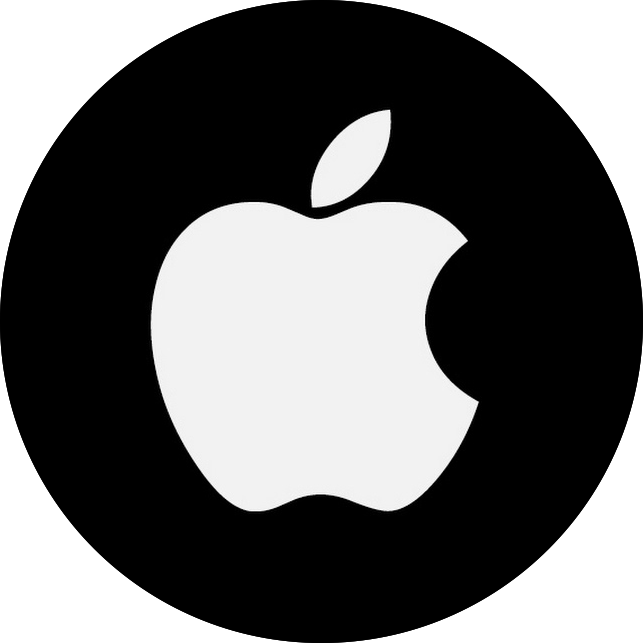
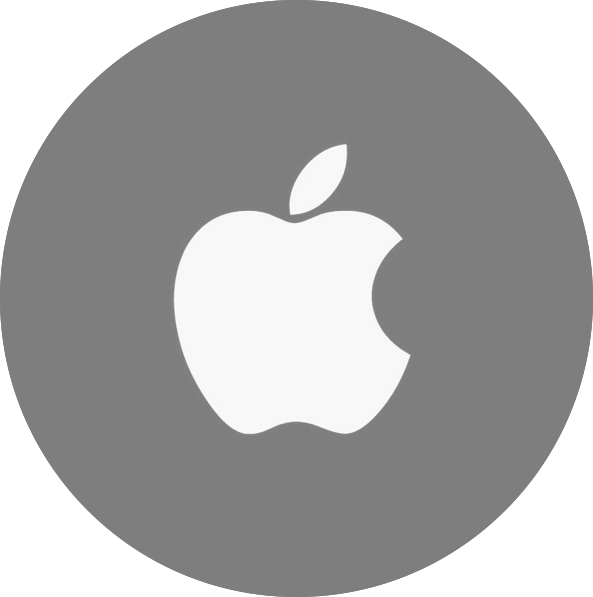
Profile Photo Change and About me fix

diff --git a/index.html b/index.html
@@ -176,18 +176,18 @@
 		<!-- Description of who I am -->
 		<div id="description">
 			<p>
-				<b>Who am I?</b>
-				I am currently in my fifth and final year of studies, undergoing a Bachelor of Electrical and Electronic Engineering and Computer Sciences. With an ever expanding passion of electronics spanning from battery technology to Electric Vehicles to basic circuitry, I constantly keep myself occupied with self directed projects.
+				<h3>Who am I?</h3>
+				A fifth and final year Electrical and Electronic Engineering student with an ever expanding passion for electronics. My interests span from the battery and sustainable energy market to Electric Vehicles to basic circuitry. I constantly keep myself occupied with self directed <a href="projects/index.html">projects</a>.
 			</p>
 			<hr>
 			<p>
-				<b>What are my projects?</b>
-				Any project that peaks my interest or gets me thinking, I act on. I currently use a self built electric skateboard to get from A to B, and I am currently developing my next Electric Vehicle of a larger scale (See project info for more!). I run an Ubuntu Server that hosts all of my automated online needs, this webpage, with many aspects being designed and coded from scratch by myself.
+				<h3>What are my projects?</h3>
+				Any project that peaks my interest or gets me thinking! Starting with a self built electric skateboard to get from A to B, to developing an electric bike to working on an electric car conversion! I run an Ubuntu Server that hosts all of my automated online needs including this webpage which was coded from scratch.
 			</p>
 			<hr>
 			<p>
-				<b>What do I have to offer?</b>
-				With my professional experience in both customer service and IT networking, my ever-growing list of DIY projects, and my determined nature, I offer the ability to quickly adapt, learn, and enhance my technical abilities in a flexible and professional manner. My experience in documentation and management of projects gives me an edge in predicting issues associated with embarking on a new project and ensuring the project timeline runs smoothly.
+				<h3>What do I have to offer?</h3>
+				With my professional customer service and IT experience, as well as my ever-growing list of DIY projects, my determined nature enables me to quickly adapt, learn, and enhance my technical abilities in a flexible and professional manner. My experience in documentation and management of projects allows me to provide stability in any new project.
 				</p>
 		</div>
 	</div>

diff --git a/css/sitewide.css b/css/sitewide.css
@@ -16,7 +16,7 @@ body {
   font-family: Avenir, Cambria, "Times New Roman", serif;
 	font-size: 100%;
 
-  text-align: justify;
+  text-align: left;
 }
 
 /* Non Structural Fun! */
